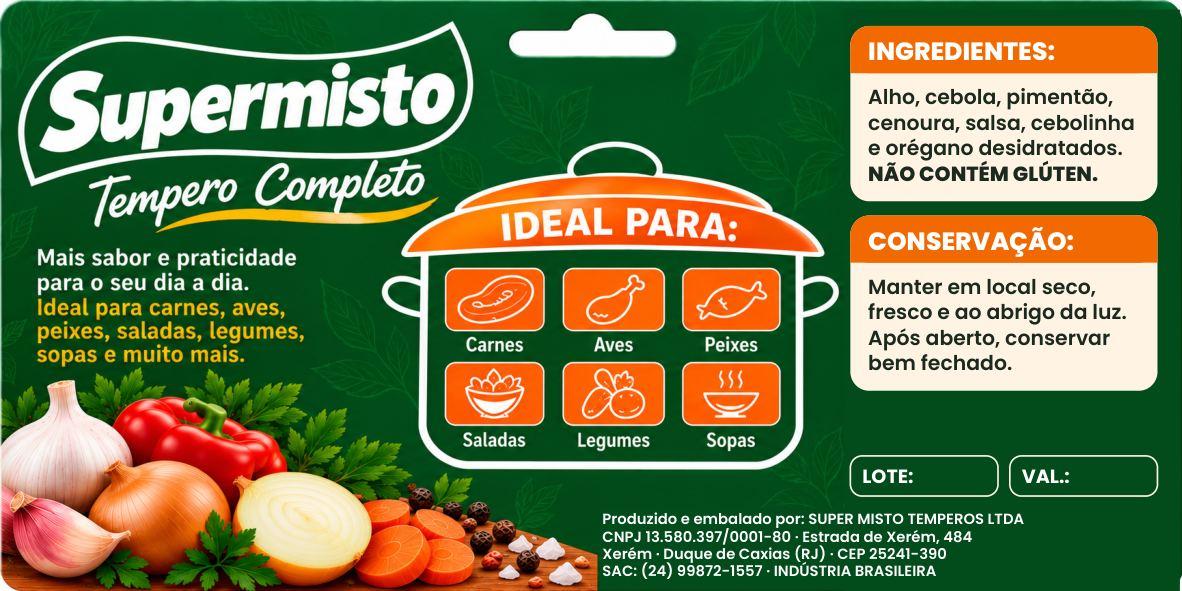
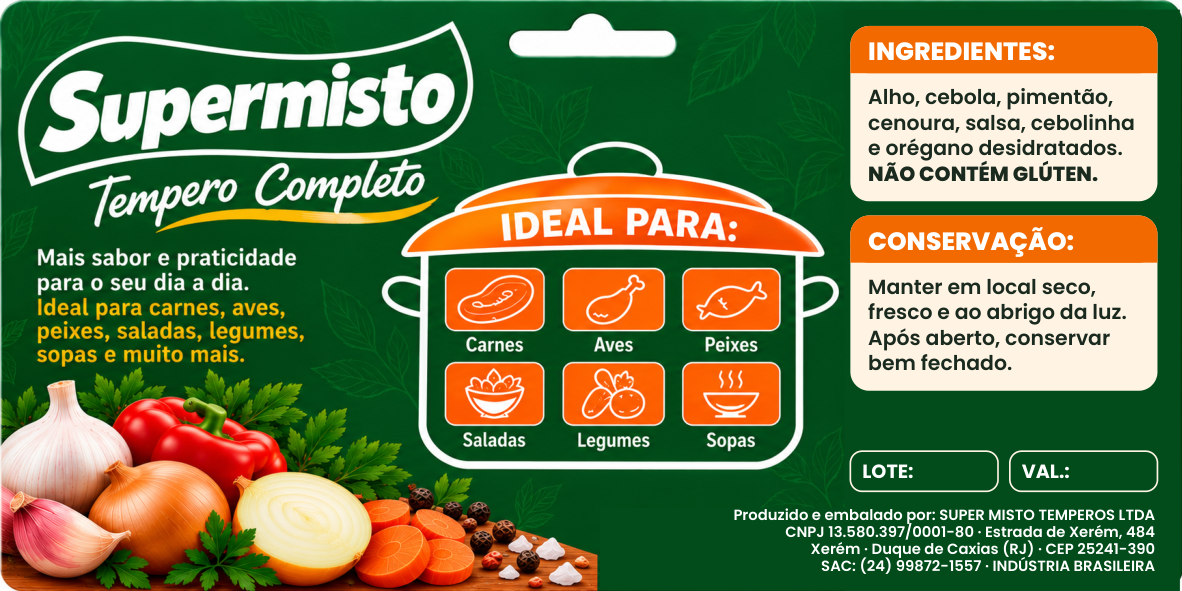
Solapa Tempero Completo: dados da empresa no canto de baixo, sob lote e validade
Claude-Session: https://claude.ai/code/session_01UfbvQyVUMZpEq6zNbbPKYT

Changed region(s): [[0.4873, 0.7614, 0.9746, 0.9746]]

diff --git a/entregas/super-misto/solapa-tc/solapa_tc.py b/entregas/super-misto/solapa-tc/solapa_tc.py
@@ -125,11 +125,11 @@ def verso(c, x, y):
     meia = (cw - 1 * mm) / 2
     for i, rot in enumerate(['LOTE:', 'VAL.:']):
         bx = cx + i * (meia + 1 * mm)
-        c.roundRect(bx, y + 8 * mm, meia, 3.4 * mm, 1 * mm, stroke=1, fill=0)
-        c.setFillColor(white); c.setFont('P-Bold', 4.6); c.drawString(bx + 1 * mm, y + 9.1 * mm, rot)
+        c.roundRect(bx, y + 8.4 * mm, meia, 3.4 * mm, 1 * mm, stroke=1, fill=0)
+        c.setFillColor(white); c.setFont('P-Bold', 4.6); c.drawString(bx + 1 * mm, y + 9.5 * mm, rot)
     c.setFillColor(white); c.setFont('P-SemiBold', 3.55)
     for i, l in enumerate(EMPRESA):
-        c.drawString(x + 51 * mm, y + 5.6 * mm - i * 1.45 * mm, l)
+        c.drawRightString(x + W - 2.2 * mm, y + 6.0 * mm - i * 1.45 * mm, l)
 
 
 
